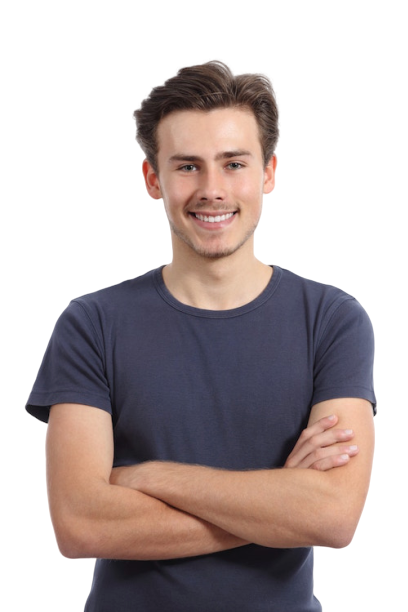
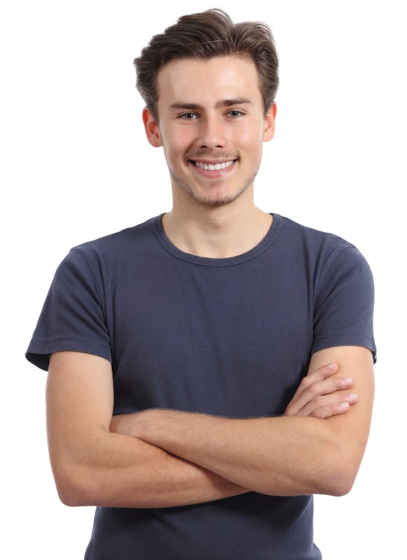
fix sign-in page overflow

Changed region(s): [[0.059, 0.0, 0.9435, 1.0], [0.855, 0.7589, 0.914, 0.8804]]

diff --git a/sign-in-2.html b/sign-in-2.html
@@ -1,6 +1,7 @@
 ---
 layout: default
 permalink : /sign-in-2/
+navbar: navbar-2
 ---
 <div class="container flex-grow-1 sign-in">
   <div class="row h-100">
@@ -9,16 +10,16 @@ permalink : /sign-in-2/
 
     <div class="col-sm">
       <div class="container">
-        <div class="col m12">
+        <div class="col">
           <h2 class="heading">Complete sign up</h2>
         </div>
         <div class="clearfix"></div>
-        <div class="col s12 m12 l12">
+        <div class="col s12 l12">
           <form name="register" novalidate="" class="ng-pristine ng-invalid ng-touched">
             <div class="row">
-              <div class="col s12 m12 l6"><label for="first_name">First Name</label><input autocomplete="off" class="textfield first-name-textfield ng-untouched ng-pristine ng-invalid" id="first_name" name="first_name" required="" type="text"><span class="first-name-icon"></span>
+              <div class="col s12 l6"><label for="first_name">First Name</label><input autocomplete="off" class="textfield first-name-textfield ng-untouched ng-pristine ng-invalid" id="first_name" name="first_name" required="" type="text"><span class="first-name-icon"></span>
               </div>
-              <div class="col s12 m12 l6"><label for="last_name">Last Name</label><input autocomplete="off" class="textfield last-name-textfield ng-untouched ng-pristine ng-invalid" id="last_name" name="last_name" required="" type="text">
+              <div class="col s12 l6"><label for="last_name">Last Name</label><input autocomplete="off" class="textfield last-name-textfield ng-untouched ng-pristine ng-invalid" id="last_name" name="last_name" required="" type="text">
               </div>
             </div>
             <div class="row">

diff --git a/_includes/navbar-2.html b/_includes/navbar-2.html
@@ -6,19 +6,27 @@
     </a>
     <!-- Sidenav toggle (see assets/css/demo/demo.css) -->
     <button class="navbar-toggler" type="button" data-toggle="collapse" data-target="#layout-navbar-collapse">
-    <span class="navbar-toggler-icon"></span>
+      <span class="navbar-toggler-icon"></span>
     </button>
     <div class="navbar-collapse collapse" id="layout-navbar-collapse">
       <!-- Divider -->
       <hr class="d-lg-none w-100 my-2">
-      <div class="navbar-nav align-items-lg-center">
-      </div>
       <div class="navbar-nav align-items-lg-center ml-auto py-6px">
-        <button class="btn btn-outline-dark mr-3 my-3 my-lg-0" type="button">LOGIN</button>
-        <!-- Divider -->
-        <div class="nav-item d-none d-lg-block text-big font-weight-light line-height-1 opacity-25 mr-3 ml-1">|</div>
-        <button class="btn btn-dark my-3 my-lg-0" type="button">SIGN UP</button>
+        <a class="nav-item nav-link mr-lg-2" href="javascript:void(0)">
+          Get in Touch
+        </a>
+        <button class="btn btn-outline-dark mr-lg-3 my-3 my-lg-0" type="button">LOGIN</button>
       </div>
+
+<!--       <div class="header-13 navbar-collapse collapse justify-content-lg-end w-lg-100">
+        <div class="nav navbar-nav align-items-lg-center">
+          <a class="nav-item nav-link" href="javascript:void(0)">
+            Get in Touch
+          </a>
+          <a href="javascript:void(0)" class="btn btn-primary px-3 ml-lg-4">Join Us</a>
+        </div>
+      </div> -->
+
     </div>
   </div>
 </nav>

diff --git a/sign-in.html b/sign-in.html
@@ -19,8 +19,9 @@ layout: default
       </div>
       <!-- / Form -->
     </div>
-    <div class="col-md-5 offset-md-1 text-center text-md-left">
-      <img class="d-none d-sm-block" alt="image" src="assets/img/casual-man-tshirt.png">
+    <div class="col-md-5 offset-md-1 text-center ">
+      <img class="d-none d-sm-block" alt="image" src="assets/img/casual-man-tshirt.png" style="
+    width: 395px;">
     </div>
   </div>
 </div>

diff --git a/_layouts/default.html b/_layouts/default.html
@@ -6,7 +6,11 @@
     <div class="layout-wrapper layout-1 layout-without-sidenav">
       <div class="layout-inner">
         <!-- Layout navbar -->
+        {% if page.navbar == 'navbar-2' %}
+        {%- include navbar-2.html  -%}
+        {% else %}
         {%- include navbar.html  -%}
+        {% endif %}
         <!-- / Layout navbar -->
         <!-- Layout container -->
         <div class="layout-container">

diff --git a/_includes/navbar.html b/_includes/navbar.html
@@ -11,8 +11,6 @@
     <div class="navbar-collapse collapse" id="layout-navbar-collapse">
       <!-- Divider -->
       <hr class="d-lg-none w-100 my-2">
-      <div class="navbar-nav align-items-lg-center">
-      </div>
       <div class="navbar-nav align-items-lg-center ml-auto py-6px">
         <button class="btn btn-outline-dark mr-lg-3 my-3 my-lg-0" type="button">LOGIN</button>
         <!-- Divider -->
